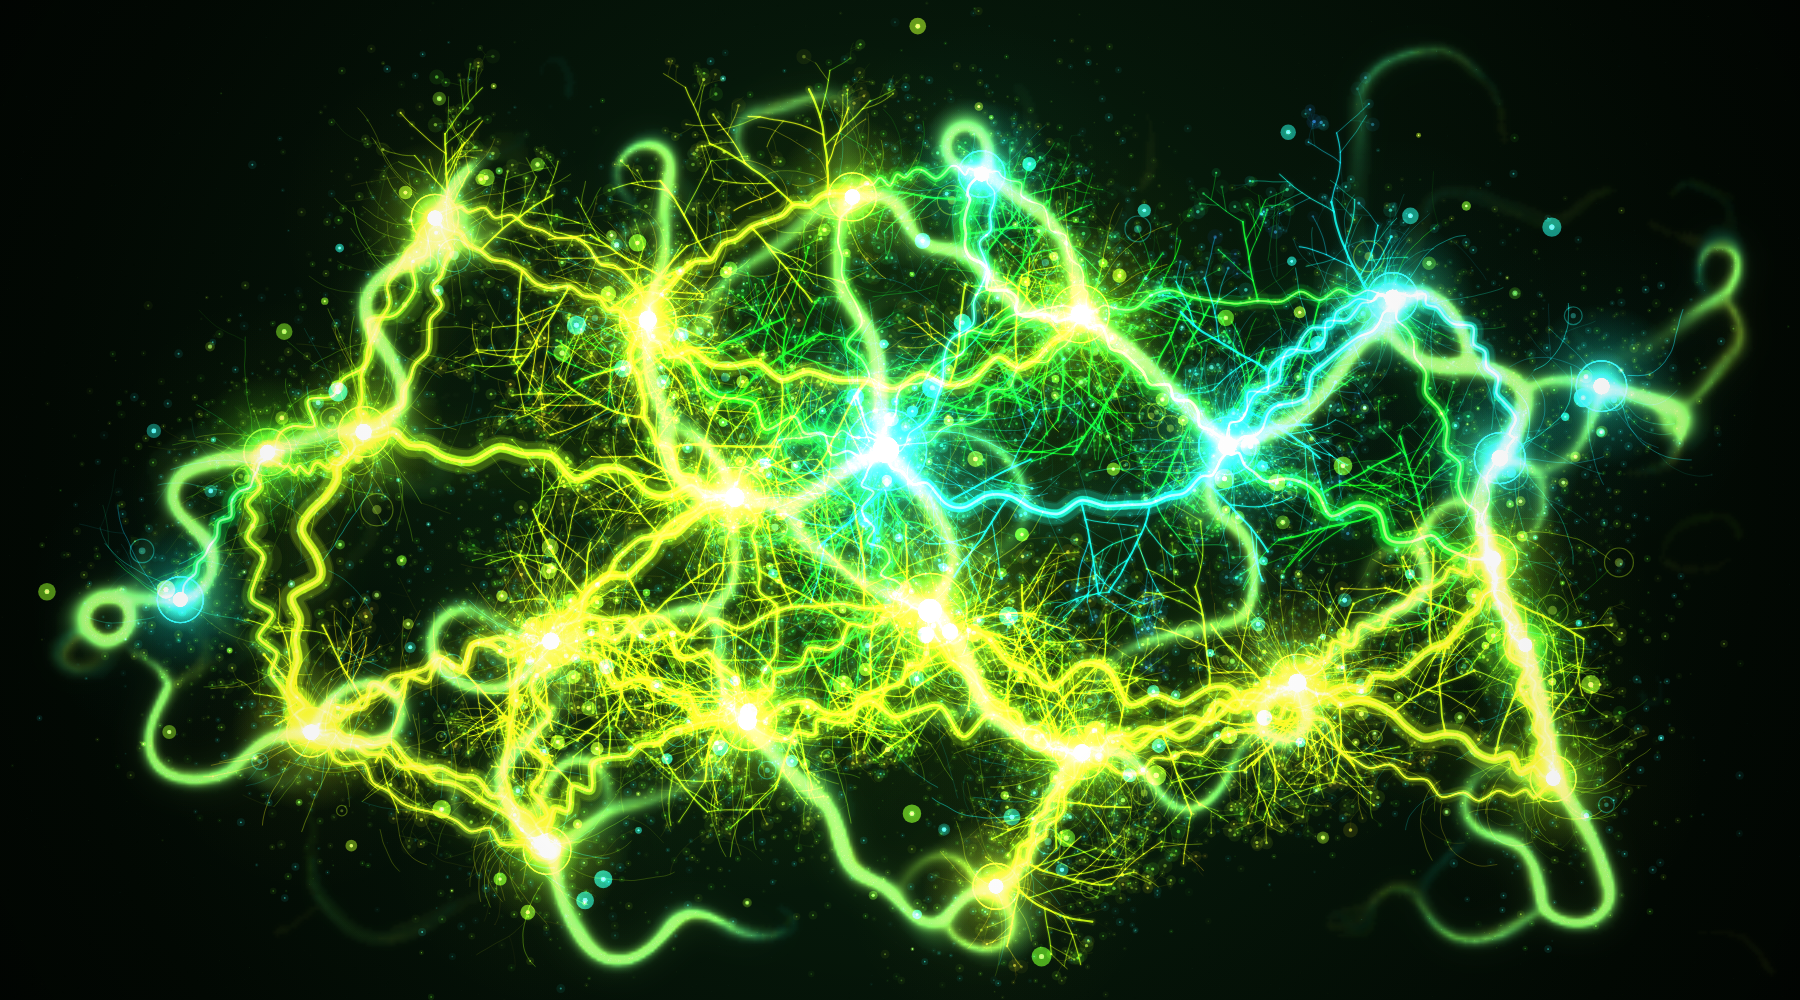
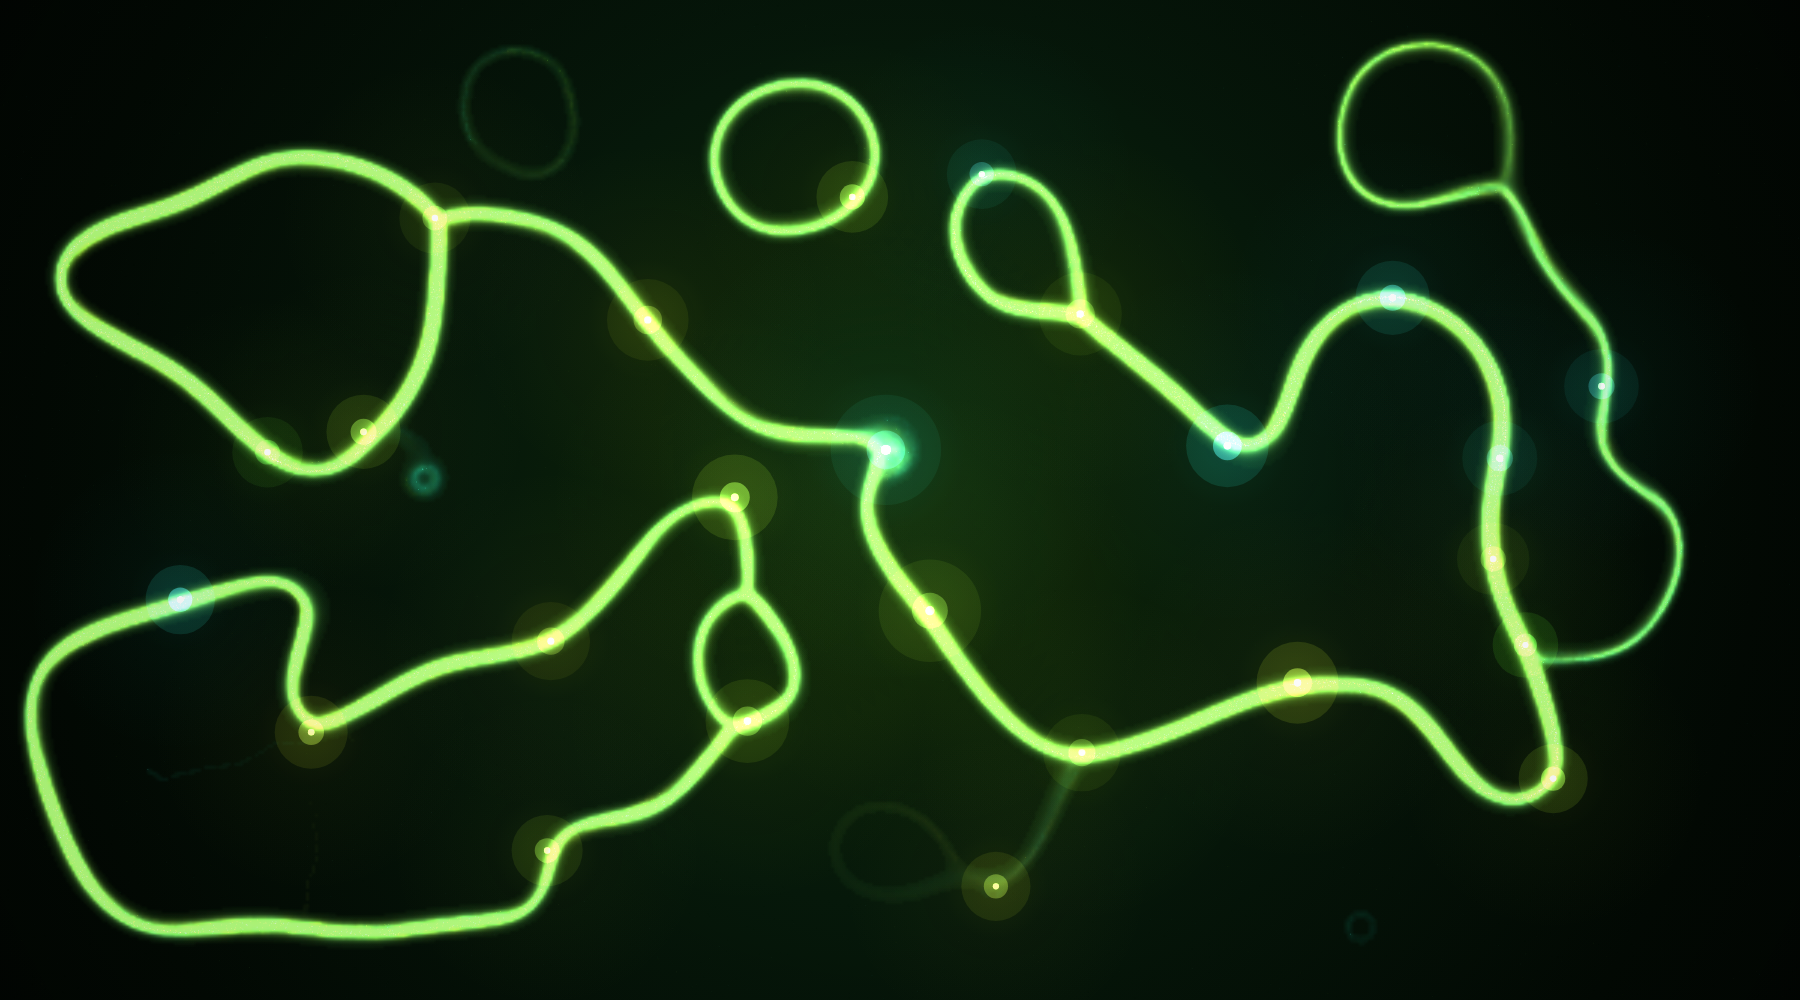
refactor: enhance high-density slime mold simulation with improved growth dynamics and visual effects

diff --git a/2026/07/p5js黏菌模拟/dense-mycelium.html b/2026/07/p5js黏菌模拟/dense-mycelium.html
@@ -39,17 +39,18 @@ const CONFIG = {
   agentDensity: 0.16,
   minAgents: 18000,
   maxAgents: 38000,
-  warmupSteps: 86,
-  stepsPerFrame: 1,
+  warmupSteps: 0,
+  stepsPerFrame: 4,
+  agentActivationTicks: 420,
   sensorDistance: 7.6,
   sensorAngle: 0.70,
   turnAngle: 0.34,
   stepSize: 0.98,
-  deposit: 0.13,
-  decay: 0.946,
-  diffuseMix: 0.12,
+  deposit: 0.11,
+  decay: 0.974,
+  diffuseMix: 0.06,
   nutrientSense: 1.55,
-  maxTrail: 2.45,
+  maxTrail: 1.85,
   mouseFoodRadius: 18,
   mouseFoodStrength: 1.65
 };
@@ -129,9 +130,6 @@ function resetScene() {
   buildEdges();
   setupChemotaxisField();
   renderBackground();
-  renderSporeClouds();
-  renderMyceliumNetwork();
-  seedPulses();
 }
 
 function draw() {
@@ -148,17 +146,13 @@ function draw() {
   blendMode(BLEND);
   image(bgLayer, 0, 0);
   image(hazeLayer, 0, 0);
-  image(sporeLayer, 0, 0);
-  image(fineLayer, 0, 0);
 
   blendMode(ADD);
-  image(veinLayer, 0, 0);
   drawTrailField();
   image(liveLayer, 0, 0);
 
-  drawFlowPulses(t);
+  drawFoodSources(t);
   drawForagerSparkles(t);
-  drawTwinkleSpores(t);
   drawMouseField(t);
   fadeLiveLayer();
 
@@ -543,7 +537,8 @@ function setupChemotaxisField() {
 
   buildNutrientField();
   buildForagers();
-  for (let i = 0; i < CONFIG.warmupSteps; i++) simulateForagers();
+  const previewTicks = getPreviewTicks();
+  for (let i = 0; i < Math.max(CONFIG.warmupSteps, previewTicks); i++) simulateForagers();
 }
 
 function buildNutrientField() {
@@ -565,8 +560,8 @@ function buildNutrientField() {
       paintFieldSpot(
         screenToFieldX(p.x),
         screenToFieldY(p.y),
-        unit * (0.0045 + e.strength * 0.0025),
-        0.12 + e.strength * 0.06,
+        unit * (0.008 + e.strength * 0.003),
+        0.14 + e.strength * 0.07,
         -1
       );
     }
@@ -578,7 +573,6 @@ function buildNutrientField() {
       const idx = row + x;
       const spores = Math.pow(noise(x * 0.029, y * 0.029, CONFIG.seed * 0.0003), 3.2) * 0.20;
       nutrientField[idx] = (nutrientField[idx] + spores) * fieldEdgeMask(x, y);
-      trails[idx % 3][idx] = nutrientField[idx] * 0.050;
     }
   }
 }
@@ -618,8 +612,10 @@ function simulateForagers() {
   const centerX = fieldW * 0.5;
   const centerY = fieldH * 0.5;
   const margin = Math.min(fieldW, fieldH) * 0.024;
+  const activeAgents = currentActiveAgents();
+  const depositRamp = smoothstep(16, CONFIG.agentActivationTicks * 0.65, foragerTick);
 
-  for (let i = 0; i < agentCount; i++) {
+  for (let i = 0; i < activeAgents; i++) {
     const x = foragers.x[i];
     const y = foragers.y[i];
     let angle = foragers.angle[i];
@@ -657,7 +653,7 @@ function simulateForagers() {
 
     const localFood = sampleNutrientField(nx, ny);
     const pulse = 0.82 + 0.18 * Math.sin((foragerTick + i * 7.1) * 0.014);
-    depositForagerTrail(nx, ny, family, CONFIG.deposit * speed * pulse * (0.86 + localFood * 0.10));
+    depositForagerTrail(nx, ny, family, CONFIG.deposit * speed * pulse * (0.36 + depositRamp * 0.78) * (0.86 + localFood * 0.10));
   }
 
   diffuseForagerTrails();
@@ -681,10 +677,10 @@ function depositForagerTrail(x, y, family, amount) {
   if (ix < 1 || iy < 1 || ix >= fieldW - 1 || iy >= fieldH - 1) return;
   const idx = iy * fieldW + ix;
   addForagerTrail(idx, family, amount);
-  addForagerTrail(idx - 1, family, amount * 0.36);
-  addForagerTrail(idx + 1, family, amount * 0.36);
-  addForagerTrail(idx - fieldW, family, amount * 0.36);
-  addForagerTrail(idx + fieldW, family, amount * 0.36);
+  addForagerTrail(idx - 1, family, amount * 0.12);
+  addForagerTrail(idx + 1, family, amount * 0.12);
+  addForagerTrail(idx - fieldW, family, amount * 0.12);
+  addForagerTrail(idx + fieldW, family, amount * 0.12);
 }
 
 function addForagerTrail(idx, family, amount) {
@@ -728,16 +724,16 @@ function drawTrailField() {
   push();
   drawingContext.imageSmoothingEnabled = true;
   blendMode(ADD);
-  drawingContext.filter = 'blur(16px)';
-  tint(0, 0, 100, 28);
+  drawingContext.filter = 'blur(5px)';
+  tint(0, 0, 100, 16);
   image(trailLayer, 0, 0, width, height);
   blendMode(SCREEN);
-  drawingContext.filter = 'blur(4px)';
-  tint(0, 0, 100, 76);
+  drawingContext.filter = 'blur(1px)';
+  tint(0, 0, 100, 58);
   image(trailLayer, 0, 0, width, height);
   blendMode(ADD);
   drawingContext.filter = 'none';
-  tint(0, 0, 100, 128);
+  tint(0, 0, 100, 154);
   image(trailLayer, 0, 0, width, height);
   noTint();
   drawingContext.filter = 'none';
@@ -751,8 +747,7 @@ function updateTrailImage() {
     const b = trails[1][i];
     const c = trails[2][i];
     const total = a + b + c;
-    const food = nutrientField[i] * 0.040;
-    const visible = total * 0.26 + food;
+    const visible = total * 0.38;
 
     if (visible < 0.010) {
       data[p] = 0;
@@ -767,7 +762,7 @@ function updateTrailImage() {
     const lime = b * inv;
     const gold = c * inv;
     const glow = Math.pow(Math.min(1, visible * 0.62), 0.62);
-    const hot = Math.min(1, total * 0.10 + food * 0.42);
+    const hot = Math.min(1, total * 0.14);
 
     let r = 18 * cyan + 122 * lime + 255 * gold;
     let g = 250 * cyan + 255 * lime + 245 * gold;
@@ -780,8 +775,26 @@ function updateTrailImage() {
     data[p] = Math.min(255, r);
     data[p + 1] = Math.min(255, g);
     data[p + 2] = Math.min(255, bl);
-    data[p + 3] = Math.min(198, 8 + glow * 176);
+    data[p + 3] = Math.min(205, 8 + glow * 188);
   }
+}
+
+function drawFoodSources(t) {
+  push();
+  blendMode(ADD);
+  noStroke();
+  for (let i = 0; i < hubs.length; i++) {
+    const h = hubs[i];
+    const pulse = 0.58 + 0.42 * Math.sin(TWO_PI * frac01(t + h.phase));
+    const r = Math.min(width, height) * (0.006 + h.power * 0.004);
+    fill(h.hue, 84, 100, 4 + pulse * 7);
+    ellipse(h.x, h.y, r * 8.0, r * 8.0);
+    fill(h.hue + 12, 66, 100, 18 + pulse * 20);
+    ellipse(h.x, h.y, r * 2.8, r * 2.8);
+    fill(70, 34, 100, 56 + pulse * 28);
+    ellipse(h.x, h.y, r * 0.72, r * 0.72);
+  }
+  pop();
 }
 
 function drawForagerSparkles(t) {
@@ -789,22 +802,35 @@ function drawForagerSparkles(t) {
   push();
   blendMode(ADD);
   strokeWeight(Math.max(0.65, Math.min(width, height) / 1500));
+  const activeAgents = currentActiveAgents();
   const colors = [
-    [176, 62, 100, 42],
-    [82, 82, 100, 34],
-    [54, 84, 100, 30]
+    [176, 62, 100, 62],
+    [82, 82, 100, 48],
+    [54, 84, 100, 42]
   ];
   for (let family = 0; family < 3; family++) {
     const c = colors[family];
     stroke(c[0], c[1], c[2], c[3]);
     beginShape(POINTS);
-    for (let i = family; i < agentCount; i += 19) {
+    for (let i = family; i < activeAgents; i += 9) {
       if (((i + foragerTick) % 7) === 0) continue;
       vertex(fieldToScreenX(foragers.x[i]), fieldToScreenY(foragers.y[i]));
     }
     endShape();
   }
   pop();
+}
+
+function currentActiveAgents() {
+  if (!foragers) return 0;
+  const activation = smoothstep(0, CONFIG.agentActivationTicks, foragerTick);
+  return Math.max(96, Math.min(agentCount, Math.floor(agentCount * activation)));
+}
+
+function getPreviewTicks() {
+  const params = new URLSearchParams(window.location.search);
+  const ticks = Number(params.get('previewTicks') || 0);
+  return Number.isFinite(ticks) ? Math.max(0, Math.min(2200, Math.floor(ticks))) : 0;
 }
 
 function paintFoodField(mx, my, radius, strength) {
@@ -872,17 +898,11 @@ function drawMouseField(t) {
 
 function seedBloom(x, y, force) {
   liveLayer.blendMode(ADD);
-  const count = Math.floor(8 + 10 * force);
   drawRadialBlob(liveLayer, x, y, 56 * force, PALETTE.cyan[0], 72, 100, 22);
-  for (let i = 0; i < count; i++) {
-    const angle = rng() * TWO_PI;
-    const len = Math.min(width, height) * (0.035 + rng() * 0.07) * force;
-    growLiveBranch(x, y, angle, len, 3, 1.6, rng() < 0.5 ? PALETTE.cyan[0] : PALETTE.lime[0]);
-  }
-  for (let i = 0; i < 80 * force; i++) {
+  for (let i = 0; i < 42 * force; i++) {
     const a = rng() * TWO_PI;
-    const r = Math.pow(rng(), 0.38) * 70 * force;
-    drawSpore(liveLayer, x + Math.cos(a) * r, y + Math.sin(a) * r, rng() < 0.45 ? PALETTE.cyan[0] : PALETTE.acid[0], 0.6 + rng() * 2.2, 25 + rng() * 45);
+    const r = Math.pow(rng(), 0.48) * 58 * force;
+    drawSpore(liveLayer, x + Math.cos(a) * r, y + Math.sin(a) * r, rng() < 0.45 ? PALETTE.cyan[0] : PALETTE.acid[0], 0.45 + rng() * 1.5, 18 + rng() * 34);
   }
 }
 
@@ -1097,6 +1117,7 @@ function keyPressed() {
 
 function mousePressed() {
   seedBloom(mouseX, mouseY, 1.2);
+  paintFoodField(mouseX, mouseY, CONFIG.mouseFoodRadius * 1.2, CONFIG.mouseFoodStrength);
 }
 
 function windowResized() {

diff --git a/2026/07/p5js黏菌模拟/content.md b/2026/07/p5js黏菌模拟/content.md
@@ -103,14 +103,14 @@ http://localhost:8080/index.html
 - `食物吸引`：营养点对粒子的吸引权重。
 - `鼠标范围` / `鼠标食物`：按住鼠标投喂时影响多大、多强。
 
-高密度版本把视觉目标切换成显微摄影式的复杂菌丝，但仍然保留“寻味”的黏菌算法：
+高密度版本现在强调“从 0 到 N”的生长过程，而不是一开始展示完整网络：
 
-- 先生成多个强光菌核。
-- 用粗主脉把核心菌核连接起来。
-- 沿主脉和菌核递归生长大量细枝。
-- 在周围撒出青绿色和黄绿色孢子云。
-- 再叠加几万枚寻味代理：它们读取前方、左前、右前的信息素和营养浓度，朝更香的方向转弯，并在走过的地方留下新的荧光味道。
-- 鼠标按住时不是只加亮点，而是把新的营养写进味道场，附近代理会逐渐被吸过去。
+- 初始画面只有暗背景、营养点和少量刚孵化的寻味代理。
+- 预生成的主脉、细枝、孢子云不再直接绘制出来。
+- 隐藏的营养场只负责被代理“闻到”，不会被当成现成图层显示。
+- 寻味代理会逐步激活，读取前方、左前、右前的信息素和营养浓度，朝更香的方向转弯。
+- 所有可见脉络都来自代理走过后留下的信息素沉积、扩散和衰减。
+- 鼠标按住时会注入新的营养，附近代理会逐渐被吸过去，而不是瞬间画出一簇现成枝条。
 
 ## 可以继续改的方向
 